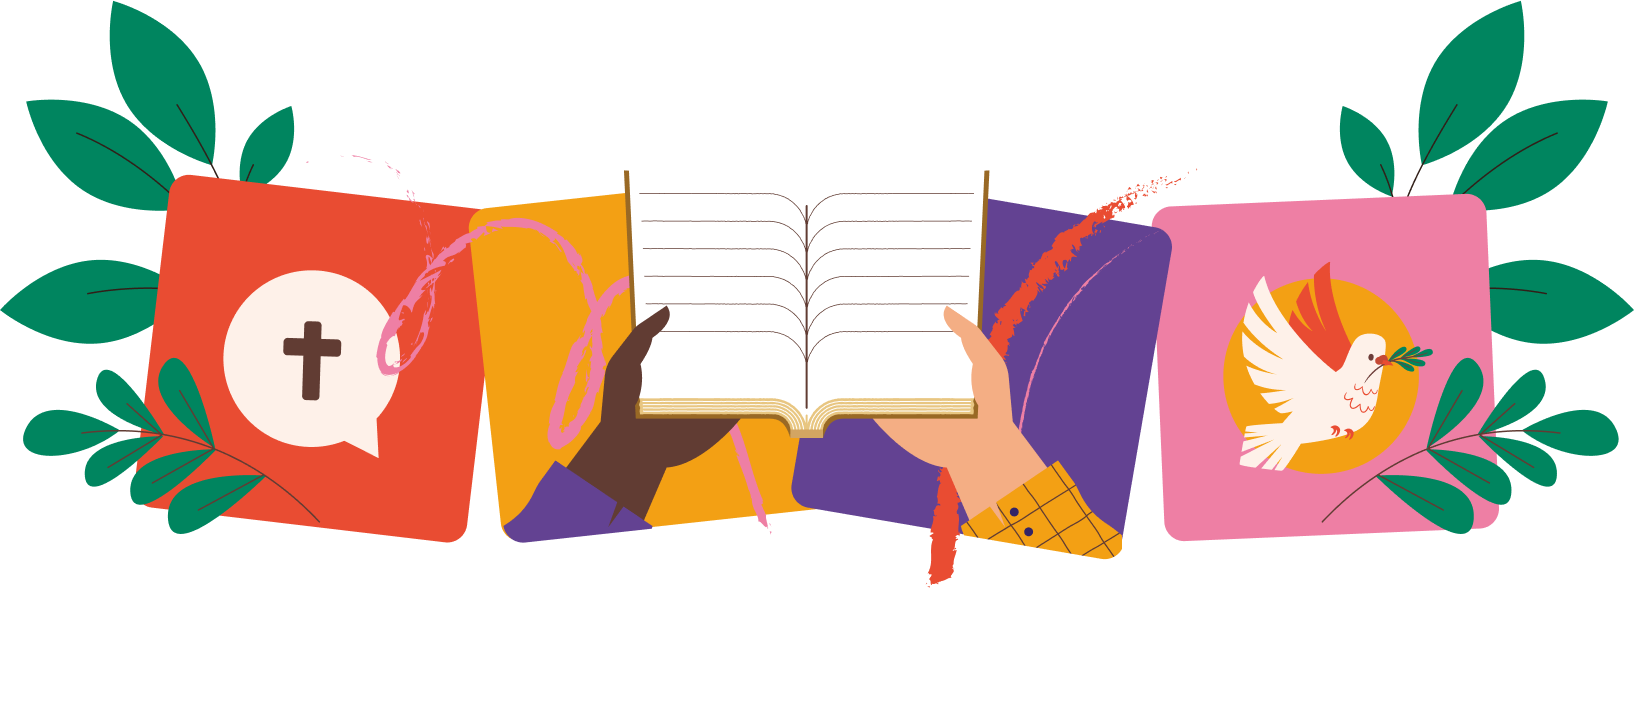
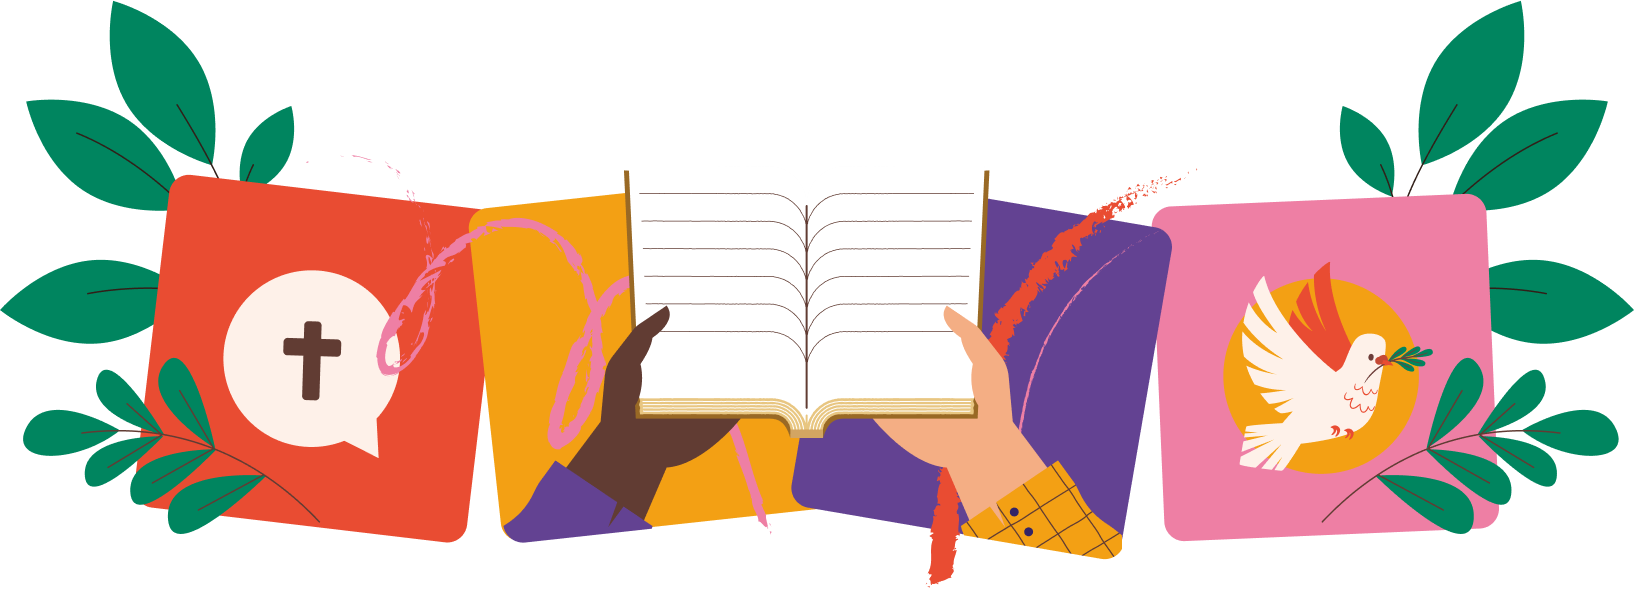
finish grafism and adjustment

diff --git a/src/components/Sections/Section6/index.jsx b/src/components/Sections/Section6/index.jsx
@@ -9,96 +9,99 @@ import icon_phone from "/assets/imagenspipo/logo_whatsapp.png";
 const Section6 = () => {
 
    React.useLayoutEffect(() => {
-         gsap.registerPlugin(ScrollTrigger);
+      gsap.registerPlugin(ScrollTrigger);
 
-         // Configuração inicial - posiciona os elementos fora da tela
-         gsap.set('#section6-left', { x: -150, opacity: 0 });
-         gsap.set('#section6-right', { x: 150, opacity: 0 });
+      // Configuração inicial - posiciona os elementos fora da tela
+      gsap.set('#section6-left', { x: -150, opacity: 0 });
+      gsap.set('#section6-right', { x: 150, opacity: 0 });
 
-         // Animação da primeira div (da esquerda para direita)
-         gsap.to('#section6-left', {
-               x: 0,
-               opacity: 1,
-               duration: 0.5,
-               ease: "power2.out",
-               scrollTrigger: {
-                     trigger: '#section-6',
-                     start: "top 80%",
-                     end: "bottom 20%",
-                     toggleActions: "play none none reverse",
-               },
+      // Animação da primeira div (da esquerda para direita)
+      gsap.to('#section6-left', {
+         x: 0,
+         opacity: 1,
+         duration: 0.5,
+         ease: "power2.out",
+         scrollTrigger: {
+            trigger: '#section-6',
+            start: "top 80%",
+            end: "bottom 20%",
+            toggleActions: "play none none reverse",
+         },
+      });
+
+      // Animação da segunda div (da direita para esquerda)
+      gsap.to('#section6-right', {
+         x: 0,
+         opacity: 1,
+         duration: 0.5,
+         ease: "power2.out",
+         scrollTrigger: {
+            trigger: '#section-6',
+            start: "top 80%",
+            end: "bottom 20%",
+            toggleActions: "play none none reverse",
+         },
+      });
+
+      return () => {
+         ScrollTrigger.getAll().forEach(trigger => {
+            if (trigger.trigger && trigger.trigger.id === 'section-6') {
+               trigger.kill();
+            }
          });
-
-         // Animação da segunda div (da direita para esquerda)
-         gsap.to('#section6-right', {
-               x: 0,
-               opacity: 1,
-               duration: 0.5,
-               ease: "power2.out",
-               scrollTrigger: {
-                     trigger: '#section-6',
-                     start: "top 80%",
-                     end: "bottom 20%",
-                     toggleActions: "play none none reverse",
-               },
-         });
-
-         return () => {
-               ScrollTrigger.getAll().forEach(trigger => {
-                     if (trigger.trigger && trigger.trigger.id === 'section-6') {
-                           trigger.kill();
-                     }
-               });
-         };
+      };
    }, []);
 
    return (
-      <Section id="section-6" className="w-full flex flex-col justify-center items-center gap-[4rem] lg:flex-row lg:h-[45rem] lg:py-[0]">
-         <div id="section6-left" className="lg:h-full lg:w-1/2">
-            <img src="/assets/imagenspipo/map_texas_scoop.png" alt="mapa" className="h-full w-full object-contain rounded-3xl" />
-         </div>
-
-         <div id="section6-right" className="w-full lg:w-1/2 bg-white rounded-3xl flex flex-col items-center justify-center gap-2 px-10 py-12">
-            <div className="flex w-full flex-col items-start font-light sm:text-[1rem] xl:text-[1.2rem] 2xl:text-[1.6rem] gap-[0.5rem]">
-               <div className="flex items-center gap-[1rem]">
-                  <img className="h-[75%]" src={icon_phone} />
-                  <p className=" h-[75%] 2xl:h-[100%]">65 3634.1604</p>
-               </div>
-               <div className="flex items-center gap-[1rem]">
-                  <img className="h-[75%]" src={icon_phone} />
-                  <p className="h-[75%] 2xl:h-[100%]">65 98415.7999</p>
-               </div>
-               <div className="flex items-center gap-[1rem] pb[3rem]">
-                  <img className="h-[75%]" src={icon_email} />
-                  <p className="h-[75%] 2xl:h-[100%]">mail@matteosorveteriacriativa.com</p>
-               </div>
+      <div className='flex justify-center w-full relative'>
+         <Section id="section-6" className="w-full flex flex-col justify-center items-center gap-[4rem] xl:flex-row xl:h-[45rem] xl:py-[0]">
+            <div id="section6-left" className="xl:h-full xl:w-1/2">
+               <img src="/assets/imagenspipo/map_texas_scoop.png" alt="mapa" className="h-full w-full object-contain rounded-3xl" />
             </div>
-            <form className="w-full" action="" method="post">
-               <div className="">
-                  <label className="block my-2 font-light" htmlFor="nome">Nome:</label>
-                  <input className="appearance-none focus:outline-none border-2 border-gray-300 rounded w-full py-2 px-3 leading-tight h-[3rem]" type="text" id="nome" name="nome" required="required" border="1px" />
-               </div>
-               <div className="2xl:flex gap-[1rem]">
-                  <div className="2xl:w-[50%]">
-                     <label className="block my-2 font-light" htmlFor="email">E-mail:</label>
-                     <input className="appearance-none focus:outline-none border-2 border-gray-300 rounded w-full py-2 px-3 leading-tight h-[3rem]" type="email" id="email" name="email" required="required" />
-                  </div>
-                  <div className="2xl:w-[50%]">
-                     <label className="block my-2 font-light" htmlFor="phone">Telefone:</label>
-                     <input className="appearance-none focus:outline-none border-2 border-gray-300 rounded w-full py-2 px-3 leading-tight h-[3rem]" type="tel" id="phone" name="phone" required="required" />
-                  </div>
-               </div>
-               <div>
-                  <label className="block my-2 font-light" htmlFor="msg">Mensagem:</label>
-                  <textarea className="appearance-none focus:outline-none border-2 border-gray-300 rounded w-full py-2 px-3 leading-tight resize-none h-[9rem]" id="msg"></textarea>
-               </div>
-               <div className="flex justify-center items-center">
-                  <input className="text-orange border-4 border-orange rounded-full py-2 px-6 uppercase tracking-[0.3rem] mt-[1rem] h-[4rem] hover:bg-orange hover:text-white cursor-pointer transition-all duration-300" type="submit" value="SEND"></input>
 
+            <div id="section6-right" className="w-full md:w-[90%] lg:w-[80%] xl:w-1/2 bg-white rounded-3xl flex flex-col items-center justify-center gap-2 px-10 py-12 z-10">
+               <div className="flex w-full flex-col items-start font-light sm:text-[1rem] xl:text-[1.2rem] 2xl:text-[1.6rem] gap-[0.5rem]">
+                  <div className="flex items-center gap-[1rem]">
+                     <img className="h-[75%]" src={icon_phone} />
+                     <p className=" h-[75%] 2xl:h-[100%]">65 3634.1604</p>
+                  </div>
+                  <div className="flex items-center gap-[1rem]">
+                     <img className="h-[75%]" src={icon_phone} />
+                     <p className="h-[75%] 2xl:h-[100%]">65 98415.7999</p>
+                  </div>
+                  <div className="flex items-center gap-[1rem] pb[3rem]">
+                     <img className="h-[75%]" src={icon_email} />
+                     <p className="h-[75%] 2xl:h-[100%]">mail@matteosorveteriacriativa.com</p>
+                  </div>
                </div>
-            </form>
-         </div>
-      </Section>
+               <form className="w-full" action="" method="post">
+                  <div className="">
+                     <label className="block my-2 font-light" htmlFor="nome">Nome:</label>
+                     <input className="appearance-none focus:outline-none border-2 border-gray-300 rounded w-full py-2 px-3 leading-tight h-[3rem]" type="text" id="nome" name="nome" required="required" border="1px" />
+                  </div>
+                  <div className="2xl:flex gap-[1rem]">
+                     <div className="2xl:w-[50%]">
+                        <label className="block my-2 font-light" htmlFor="email">E-mail:</label>
+                        <input className="appearance-none focus:outline-none border-2 border-gray-300 rounded w-full py-2 px-3 leading-tight h-[3rem]" type="email" id="email" name="email" required="required" />
+                     </div>
+                     <div className="2xl:w-[50%]">
+                        <label className="block my-2 font-light" htmlFor="phone">Telefone:</label>
+                        <input className="appearance-none focus:outline-none border-2 border-gray-300 rounded w-full py-2 px-3 leading-tight h-[3rem]" type="tel" id="phone" name="phone" required="required" />
+                     </div>
+                  </div>
+                  <div>
+                     <label className="block my-2 font-light" htmlFor="msg">Mensagem:</label>
+                     <textarea className="appearance-none focus:outline-none border-2 border-gray-300 rounded w-full py-2 px-3 leading-tight resize-none h-[9rem]" id="msg"></textarea>
+                  </div>
+                  <div className="flex justify-center items-center">
+                     <input className="text-orange border-4 border-orange rounded-full py-2 px-6 uppercase tracking-[0.3rem] mt-[1rem] h-[4rem] hover:bg-orange hover:text-white cursor-pointer transition-all duration-300" type="submit" value="SEND"></input>
+
+                  </div>
+               </form>
+            </div>
+         </Section>
+         <img src="/assets/imagenspipo/graf_03.png" alt="grafismo3" className='absolute top-0 right-0 translate-y-[-43%] xl:translate-y-[-58%] w-1/4 xl:w-[15rem]' />
+      </div>
    )
 }
 export default Section6

diff --git a/src/components/Sections/Section3/index.jsx b/src/components/Sections/Section3/index.jsx
@@ -39,12 +39,14 @@ const Section3 = () => {
       <div className='bg-[url("/assets/imagenspipo/img_video_bg.png")] bg-cover bg-center w-full flex justify-center relative'>
          <Section id="section-3" className="flex items-center justify-center md:justify-end gap-4">
             <div className='md:w-2/5 bg-background-color flex flex-col items-center p-8 rounded-[2rem] md:bg-transparent'>
-               <h1 className='mb-4 title text-pink'>Team delicious</h1>
+               <h1 className='mb-4 title text-pink tracking-tighter'>Team delicious</h1>
                <p className='text-text-color'>Scoop of Blessing is a Brazilian-born (Matteo Sorveteria Criativa), award-winning craft ice cream company, now in the U.S., creating natural ice creams while empowering individuals with disabilities through strategic partnerships.</p>
                {/* <button className=' text-white bg-pink rounded-full py-2 px-6 uppercase tracking-[0.3rem]'>See the Magic Behind the Cone</button> */}
             </div>
          </Section>
-         <img src="/assets/imagenspipo/grafismo_01.png" alt="background" className='absolute top-0 translate-y-[-50%] right-0 w-1/4 lg:w-[20rem]' />
+         <img src="/assets/imagenspipo/graf_01.png" alt="grafismo1" className='absolute top-0 right-0 translate-y-[-63%] w-1/4 lg:w-[20rem]' />
+         <img src="/assets/imagenspipo/graf_02.png" alt="grafismo2" className='absolute bottom-0 left-0 translate-y-[63%] w-1/4 lg:w-[20rem]' />
+
       </div>
    )
 }

diff --git a/src/components/Sections/SectionHide/index.jsx b/src/components/Sections/SectionHide/index.jsx
@@ -56,7 +56,7 @@ const SectionHide = ({isOpen}) => {
             <div className="flex flex-row justify-center items-center">
               <div className="w-2/3 flex flex-col justify-center items-center gap-4 xl:gap-0">
                 <h1 className="font-bold leading-none text-start text-text-color text-[1.6rem] xl:text-[2rem] tracking-tight">PRODUCTION.</h1>
-                <h2 className="text-text-color text-start w-4/5 xl:w-full font-thin">We make EVERYTHING here:</h2>
+                <h2 className="text-text-color text-wrap md:text-center xl:text-start w-4/5 xl:w-full font-thin">We make EVERYTHING here:</h2>
                 <ul className="text-black text-start list-disc list-inside">
                   <li>Pasteurized bases</li>
                   <li>Fresh fruit jams</li>
@@ -65,7 +65,7 @@ const SectionHide = ({isOpen}) => {
                 </ul>
               </div>
               <div className="flex justify-center items-center">
-                <img src={infoimg04} alt="imagem de processo de produção" className="h-[5rem] xl:h-full xl:w-full" />
+                <img src={infoimg04} alt="imagem de processo de produção" className="h-[36%] xl:h-full xl:w-full" />
               </div>
             </div>
           </div>

diff --git a/src/components/Sections/Section4/index.jsx b/src/components/Sections/Section4/index.jsx
@@ -54,10 +54,10 @@ const Section4 = () => {
    }, []);
 
    return (
-      <Section id="section-4" className="bg-background-color flex flex-col items-center justify-center gap-4">
-         <h1 id="section4-title" className="text-orange title w-5/6 text-center">Crafted with care. <br /> Shared with love.</h1>
+      <Section id="section-4" className="bg-background-color flex flex-col items-center justify-center py-0 gap-12 xl:gap-8">
+         <h1 id="section4-title" className="text-orange title w-5/6 text-center tracking-tighter">Crafted with care. <br /> Shared with love.</h1>
          <p id="section4-text" className="text-text-color w-full md:w-4/6 text-center">We craft outstanding ice cream to fund global missions, passionately dedicated to sharing the Gospel with over 3 billion unreached people. Because genuine ice cream blesses others.</p>
-         <div id="section4-image" className="w-full"><img src={proposito} alt="imagem proposito" /></div>
+         <div id="section4-image" className="w-full"><img src={proposito} alt="imagem proposito" className='xl:translate-y-[-10%]'/></div>
       </Section>
    )
 }

diff --git a/src/components/Sections/Section5/index.jsx b/src/components/Sections/Section5/index.jsx
@@ -58,7 +58,7 @@ const Section5 = () => {
    return (
       <Section id="section-5" className="min-h-[unset] w-full flex flex-col xl:flex-row justify-center gap-[3rem] xl:gap-[2rem]">
          <div id="section5-left" className="w-full flex flex-col items-center">
-            <h1 className="title text-pink xl:pl-[3rem] xl:pr-[3rem] xl:pb-[1rem]">United to Bless</h1>
+            <h1 className="title text-pink xl:pl-[3rem] xl:pr-[3rem] xl:pb-[1rem] tracking-tighter">United to Bless</h1>
             <p className="mt-[2rem] text-text-color xl:pl-[3rem] xl:pr-[3rem] xl:2xl:pr-[5rem]">At Scoop of Blessing, we don’t scoop alone. Our partners walk with us in the mission to bless lives through ice cream — from training programs to global outreach. Together, we turn purpose into action, one scoop at a time.</p>
             {/* <button className='text-pink border-4 border-pink rounded-full py-2 px-6 uppercase tracking-[0.3rem] mt-[3rem] h-[4rem]'>FIND OUT MORE</button> */}
          </div>

diff --git a/src/components/Sections/Section2/index.jsx b/src/components/Sections/Section2/index.jsx
@@ -71,7 +71,7 @@ const Section2 = () => {
       <>
          <Section id="section-2" className="min-h-[unset] md:py-[0] bg-background-color flex flex-col md:flex-row">
             <div className='left flex flex-col items-center'>
-               <h1 className='text-orange title mb-4'>A scoop of our story</h1>
+               <h1 className='text-orange title mb-4 tracking-tighter'>A scoop of our story</h1>
                <p className='text-text-color'>Think of us as your emotional support scoop — handcrafted with passion, scooped with pride, and taste-tested (maybe too much) for your happiness. Made with natural ingredients and plenty of love. Take a peek at some of our processes below.</p>
                <button
                   onClick={(e) => handleScroll(e, '#section-hide')}

diff --git a/src/components/Sections/Section1/index.jsx b/src/components/Sections/Section1/index.jsx
@@ -19,7 +19,7 @@ const Section1 = () => {
 
    return (
       <section id="section-1" className="fade-in flex flex-col md:flex-row items-center justify-center gap-4 pb-4 py-[6rem] min-h-[100vh]">
-         <h2 className='text-purple font-light text-center text-3xl md:text-5xl'>WHERE EVERY <b className="text-3xl md:text-5xl">SCOOP</b></h2>
+         <h2 className='text-purple font-light text-center text-3xl md:text-5xl tracking-tighter'>WHERE EVERY <b className="text-3xl md:text-5xl">SCOOP</b></h2>
          <img src={ilustracao} alt="imagem de ilustraçao" className="w-full sm:w-2/5" />
          <h2 className='text-purple font-light text-center text-3xl md:text-5xl'>TELLS A <b className="text-3xl md:text-5xl">STORY</b></h2>
       </section>
